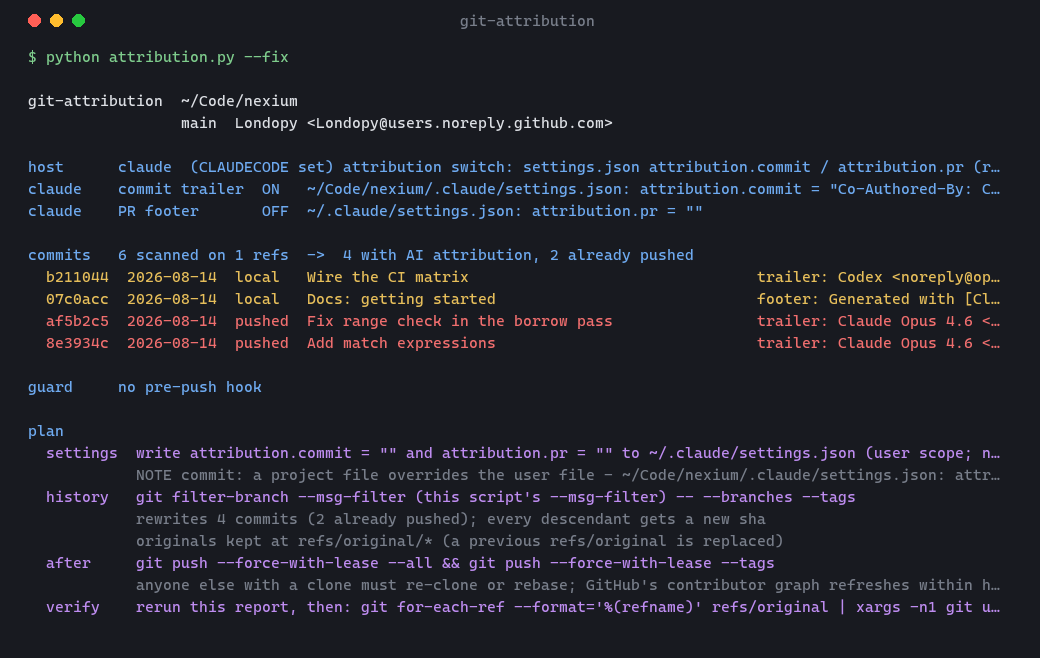
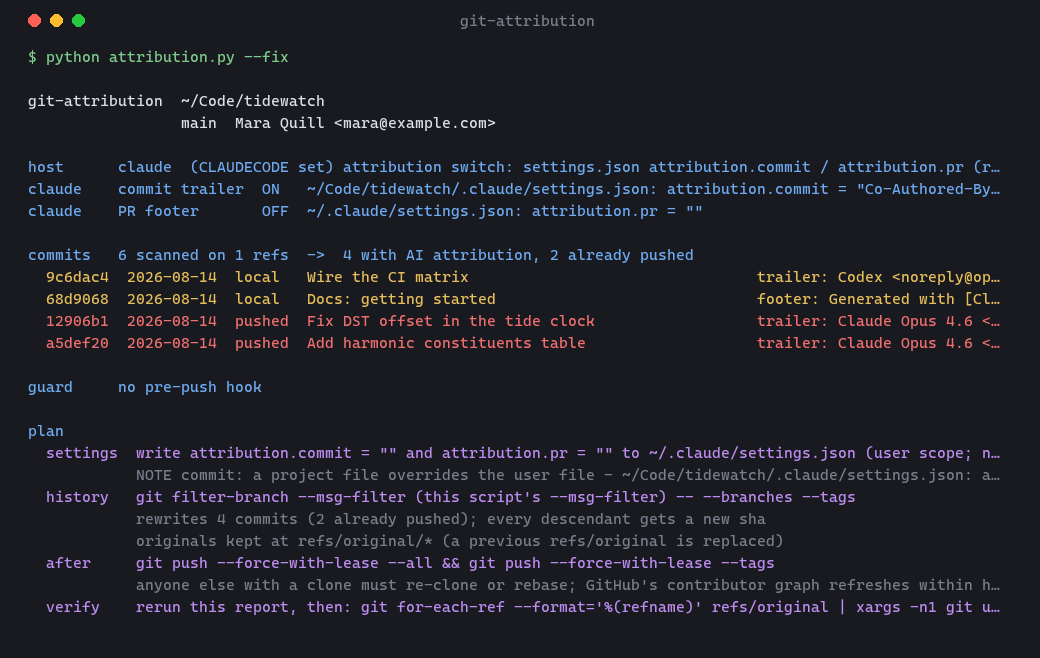
Demo and README examples use a fictional project (tidewatch), not real repos, paths or identities

diff --git a/docs/make_demo.py b/docs/make_demo.py
@@ -46,14 +46,14 @@ def commit(repo: Path, n: int, message: str) -> None:
 def fixture(tmp: Path) -> Path:
     remote = tmp / "remote.git"
     git(tmp, "init", "-q", "--bare", str(remote))
-    repo = tmp / "nexium"
+    repo = tmp / "tidewatch"
     git(tmp, "init", "-q", "-b", "main", str(repo))
-    git(repo, "config", "user.name", "Londopy")
-    git(repo, "config", "user.email", "Londopy@users.noreply.github.com")
+    git(repo, "config", "user.name", "Mara Quill")
+    git(repo, "config", "user.email", "mara@example.com")
     git(repo, "remote", "add", "origin", str(remote))
-    commit(repo, 1, "Initial parser and lexer\n")
-    commit(repo, 2, "Add match expressions\n\nCo-Authored-By: Claude Opus 4.6 <noreply@anthropic.com>\n")
-    commit(repo, 3, "Fix range check in the borrow pass\n\nCo-Authored-By: Claude Opus 4.6 <noreply@anthropic.com>\n")
+    commit(repo, 1, "Initial tide model and CLI\n")
+    commit(repo, 2, "Add harmonic constituents table\n\nCo-Authored-By: Claude Opus 4.6 <noreply@anthropic.com>\n")
+    commit(repo, 3, "Fix DST offset in the tide clock\n\nCo-Authored-By: Claude Opus 4.6 <noreply@anthropic.com>\n")
     git(repo, "push", "-q", "origin", "main")
     commit(repo, 4, "Docs: getting started\n\n\U0001F916 Generated with [Claude Code](https://claude.com/claude-code)\n\nCo-authored-by: Copilot <223556219+Copilot@users.noreply.github.com>\n")
     commit(repo, 5, "Wire the CI matrix\n\nCo-authored-by: Codex <noreply@openai.com>\n")
@@ -73,7 +73,7 @@ def main() -> None:
         with redirect_stdout(buf):
             attribution.main(["--repo", str(repo), "--claude-home", str(home), "--fix"])
         out = (buf.getvalue()
-               .replace(str(repo), "~/Code/nexium").replace(str(home), "~/.claude")
+               .replace(str(repo), "~/Code/tidewatch").replace(str(home), "~/.claude")
                .replace("\\", "/").replace("\U0001F916 ", ""))   # tofu in most mono fonts
 
     lines = ["$ python attribution.py --fix", ""] + out.rstrip().splitlines()
